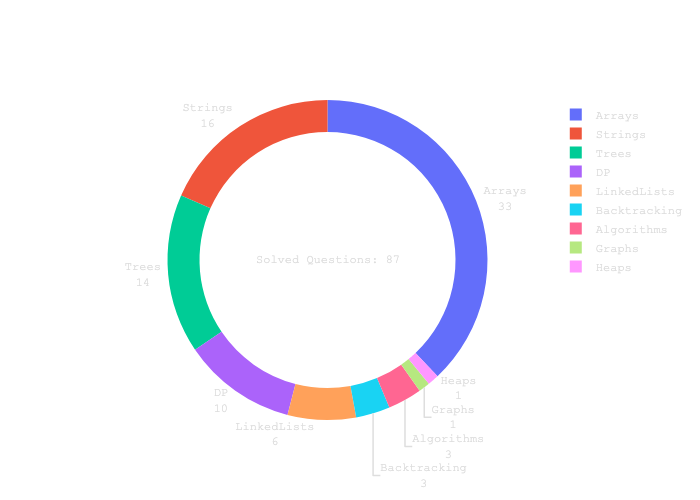
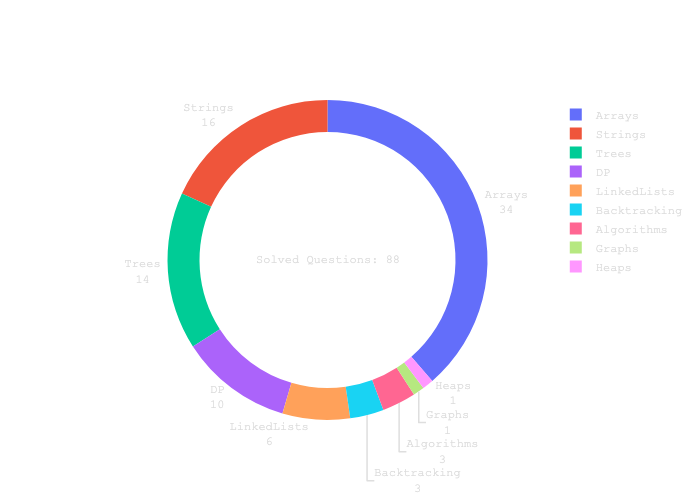
four sum

diff --git a/Arrays/4sum.py b/Arrays/4sum.py
@@ -1,0 +1,39 @@
+from typing import List
+
+
+def fourSum(nums: List[int], target: int) -> List[List[int]]:
+
+    def threeSum(arr, target):
+        threes = []
+        for i in range(len(arr) - 2):
+            l = i + 1
+            r = len(arr) - 1
+            t = target - arr[i]
+            if i == 0 or arr[i] != arr[i - 1]:
+                while l < r:
+                    s = arr[l] + arr[r]
+                    if s == t:
+                        threes.append([arr[i], arr[l], arr[r]])
+                        while l < r and arr[l] == arr[l + 1]:
+                            l += 1
+                        while l < r and arr[r] == arr[r - 1]:
+                            r -= 1
+                        l += 1
+                        r -= 1
+                    elif s < t:
+                        l += 1
+                    else:
+                        r -= 1
+        return threes
+
+    res = []
+    nums.sort()
+    for i in range(len(nums) - 3):
+        if i == 0 or nums[i] != nums[i - 1]:
+            three = threeSum(nums[i + 1 :], target - nums[i])
+            for j in three:
+                res.append(j + [nums[i]])
+    return res
+
+
+print(fourSum(nums=[1, 0, -1, 0, -2, 2], target=0))
